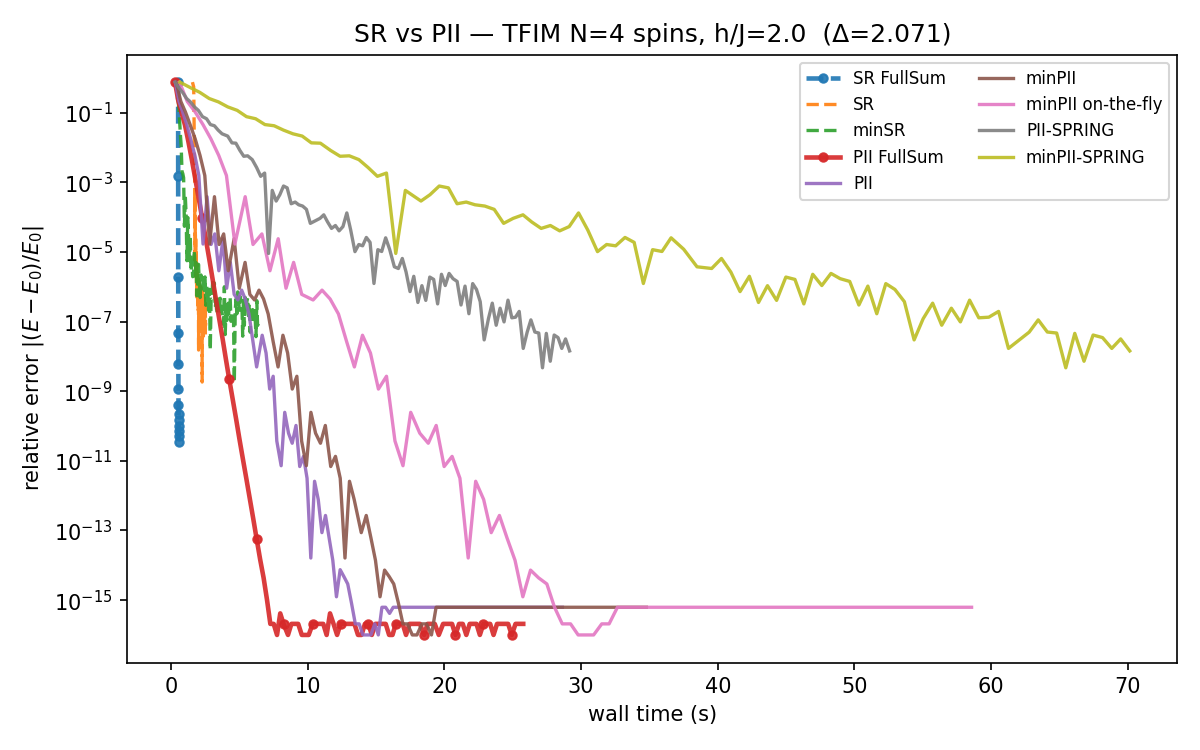
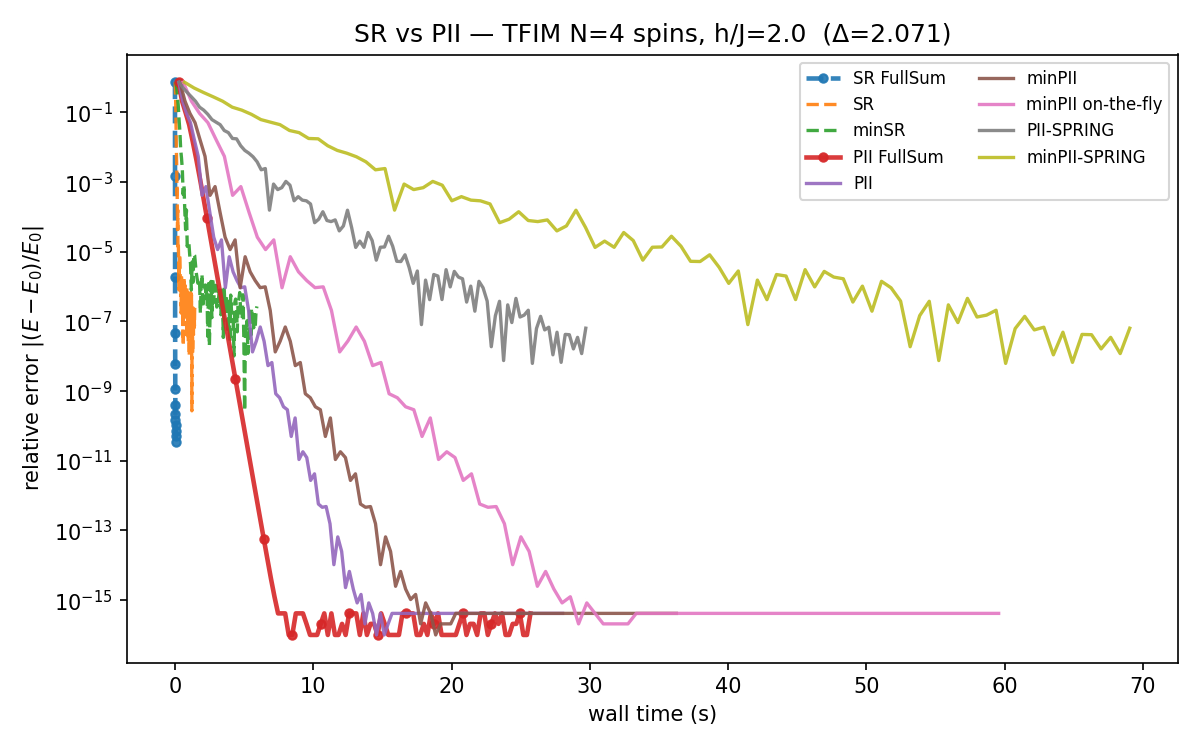
Add naive symmetrizer and clean up

diff --git a/pii/_ngd/solvers.py b/pii/_ngd/solvers.py
@@ -12,14 +12,16 @@ Bind the keyword-only ``diag_shift`` with :func:`functools.partial`, e.g.::
 
     from functools import partial
     import pii
-    solver = partial(pii.symmetrized_solver, diag_shift=1e-2)   # (Q, b) -> (x, info)
+    solver = partial(pii.penrose_symmetrized_solver, diag_shift=1e-2)   # (Q, b) -> (x, info)
 """
 
+import netket as nk
 import jax.numpy as jnp
 import jax.scipy as jsp
+from functools import partial
 
 
-def symmetrized_solver(Q, b, *, diag_shift, solver=None):
+def penrose_symmetrized_solver(Q, b, *, diag_shift, solver=None):
     r"""Regularized-least-squares ("symmetrized") solver for the dense PII matrix ``Q``.
 
     Bind ``diag_shift`` (and optionally ``solver``) with :func:`functools.partial` to
@@ -93,5 +95,83 @@ def symmetrized_solver(Q, b, *, diag_shift, solver=None):
     M = QhQ + diag_shift * jnp.eye(side, dtype=QhQ.dtype)
     rhs = Qh @ b
     if solver is None:
-        return jsp.linalg.solve(M, rhs, assume_a="pos"), None
+        solver = nk.optimizer.solver.cholesky
+        # return jsp.linalg.solve(M, rhs, assume_a="pos"), None
     return solver(M, rhs)
+
+
+def naive_symmetrized_solver(Q, b, *, diag_shift, solver=None):
+    r"""'Naive' symmetrization: solve the Hermitian part ``½(Q+Qᴴ)`` of the PII matrix.
+
+    Bind ``diag_shift`` (and optionally ``solver``) with :func:`functools.partial` to
+    obtain a ``(Q, b) -> (x, info)`` solver for ``pii.VMC(linear_solver=...)``.
+
+    The standard dense PII update solves ``Q ξ = ½∇E`` with ``Q = H - τS``.  In the
+    infinite-sample limit ``Q`` is Hermitian (the Gram matrix of the inner product
+    ``⟨v|Ĥ-τ|w⟩``); finite Monte-Carlo sampling adds an ``O(1/√M)`` anti-Hermitian part.
+    This solver simply *imposes* that asymptotic symmetry by replacing ``Q`` with its
+    Hermitian part and solving
+
+    .. math::
+        \big(\tfrac12 (Q + Q^H) + \mathrm{diag\_shift}\,I\big)\,\xi = b .
+
+    Contrast with :func:`penrose_symmetrized_solver`, which forms the normal equations
+    ``QᴴQ``.  This route is **additive** (the Hermitian part) rather than **multiplicative**
+    (``QᴴQ``), so it does *not* square the condition number of ``Q`` — it keeps ``Q``'s
+    spectral scale, and ``diag_shift`` therefore has **energy units** (like an ordinary PII
+    ``diag_shift``, not the energy² of the Penrose variant).
+
+    .. warning::
+        ``½(Q+Qᴴ)`` is symmetric but **not positive-definite** in general.  This is a
+        field-of-values effect: the (non-normal) ``Q`` is *positive-real* — all its
+        eigenvalues lie in the right half-plane, which is why standard PII's ``(Q+λI)⁻¹``
+        is well-behaved at tiny ``λ`` — yet the smallest eigenvalue of its Hermitian part
+        is the leftmost point of ``Q``'s numerical range and dips **negative** (≈ −7e-4 in
+        the small spin systems here).  So symmetrizing *introduces* a negative eigenvalue
+        that ``Q`` itself does not have — the anti-Hermitian part one discards is precisely
+        what keeps ``Q`` accretive.  The default inner solver is therefore a symmetric
+        **LDL** solve (``assume_a='sym'``), which never NaNs on an indefinite ``M`` (unlike
+        a Cholesky ``assume_a='pos'``, which would).  But a *too-small* ``diag_shift`` leaves
+        ``M = ½(Q+Qᴴ)+λI`` **near-singular** (its smallest eigenvalue barely lifted above
+        that negative one); the right-hand side excites that near-null mode and ``‖ξ‖``
+        blows up (≈ 15× the standard-PII update at ``λ=1e-3``).  With the natural step size
+        ``η=1`` the update then **overshoots** and the optimization oscillates / stalls — it
+        stays finite, and the first-order ``∇Eᵀξ`` is even a descent; it is the *nonlinear*
+        step that is too large.  Empirically ``diag_shift`` must be large enough to lift
+        ``M`` comfortably positive-definite — ``O(0.1–1)`` here, *despite* the energy units —
+        which shrinks ``‖ξ‖`` back to normal at the cost of over-regularization (slower
+        convergence and a higher floor than standard PII).
+
+    .. important::
+        Use with ``diag_shift=0`` **on the driver** (a separate knob); the regularization is
+        carried entirely by this solver's ``diag_shift``.
+
+    .. note::
+        ``Q`` is **always real** here — NetKet realifies ``mode='complex'`` by stacking the
+        Re/Im channels into extra real rows/columns — so ``Qᴴ = Qᵀ`` and ``½(Q+Qᵀ)`` is the
+        realified Hermitian part (``= realify(½(C+Cᴴ))``); the complex case is handled
+        correctly by construction.  On the ``use_ntk``/``on_the_fly`` paths the solver
+        instead receives the ``2M×2M`` NTK kernel ``K`` and symmetrizes ``½(K+Kᴴ)`` — a valid
+        sibling, with the same indefiniteness caveat.
+
+    Args:
+        Q: the dense PII matrix (or the NTK kernel ``K``) passed by the kernel.
+        b: the right-hand side ``½∇E`` (passed by the kernel).
+        diag_shift: Tikhonov regularization added to ``½(Q+Qᴴ)`` (keyword-only;
+            **energy units**).  Bind via ``partial``; use with driver ``diag_shift=0``.
+        solver: optional inner solver ``(A, b) -> (x, info)`` for the symmetric system
+            ``(½(Q+Qᴴ) + diag_shift·I) ξ = b``.  Defaults (``None``) to a symmetric LDL
+            solve :func:`jax.scipy.linalg.solve` with ``assume_a='sym'``.
+
+    Returns:
+        ``ξ = (½(Q+Qᴴ) + diag_shift·I)⁻¹ b`` (a bare array for the default solver, or
+        whatever a custom ``solver`` returns).
+    """
+    
+    Qh = Q.conj().T
+    side = Q.shape[-1]
+    M = 0.5 * (Qh + Q) + diag_shift * jnp.eye(side, dtype=Q.dtype)
+    if solver is None:
+        solver = partial(jsp.linalg.solve, assume_a="sym")
+    return solver(M, b)
+        

diff --git a/test/test_pii.py b/test/test_pii.py
@@ -8,7 +8,7 @@ import optax
 import pytest
 
 import pii
-from pii import symmetrized_solver
+from pii import penrose_symmetrized_solver
 
 from .common import tfim, make_mcstate, make_fullsum, rel_error
 
@@ -112,21 +112,21 @@ def test_tau_schedule():
 # --- Symmetrized PII (regularized pseudo-inverse solver) ---------------------
 
 
-def test_symmetrized_solver_math():
-    """symmetrized_solver returns (QᵀQ+reg·I)⁻¹Qᵀb, → Q⁻¹b as reg→0."""
+def test_penrose_symmetrized_solver_math():
+    """penrose_symmetrized_solver returns (QᵀQ+reg·I)⁻¹Qᵀb, → Q⁻¹b as reg→0."""
     rng = np.random.default_rng(0)
     n = 20
     Q = np.eye(n) + 0.3 * rng.standard_normal((n, n))  # well-conditioned
     b = rng.standard_normal(n)
 
     reg = 1e-3
-    x, info = symmetrized_solver(Q, b, diag_shift=reg)
+    x, info = penrose_symmetrized_solver(Q, b, diag_shift=reg)
     expected = np.linalg.solve(Q.T @ Q + reg * np.eye(n), Q.T @ b)
     assert info is None
     np.testing.assert_allclose(np.asarray(x), expected, rtol=1e-6, atol=1e-8)
 
     # reg → 0 reproduces the plain solve Q⁻¹b (Q well-conditioned).
-    x0, _ = symmetrized_solver(Q, b, diag_shift=1e-10)
+    x0, _ = penrose_symmetrized_solver(Q, b, diag_shift=1e-10)
     np.testing.assert_allclose(np.asarray(x0), np.linalg.solve(Q, b), rtol=1e-5, atol=1e-6)
 
     # an inner `solver` (A, b) -> (x, info) is honored for the SPD normal system.
@@ -136,7 +136,7 @@ def test_symmetrized_solver_math():
         seen["called"] = True
         return jax.scipy.linalg.solve(A, rhs, assume_a="sym"), {"k": 1}
 
-    xs, infos = symmetrized_solver(Q, b, diag_shift=reg, solver=my_solver)
+    xs, infos = penrose_symmetrized_solver(Q, b, diag_shift=reg, solver=my_solver)
     assert seen.get("called") and infos == {"k": 1}
     np.testing.assert_allclose(np.asarray(xs), expected, rtol=1e-6, atol=1e-8)
 
@@ -148,7 +148,7 @@ def test_pii_symmetrized_fullsum_converges():
     d = pii.VMC(
         H, optax.sgd(1.0), variational_state=vs, diag_shift=0.0, pii=True,
         tau=1.2 * E0, mode="real",
-        linear_solver=partial(symmetrized_solver, diag_shift=1e-3),
+        linear_solver=partial(penrose_symmetrized_solver, diag_shift=1e-3),
     )
     d.run(n_iter=50, show_progress=False)
     assert rel_error(vs, H, E0) < 1e-3
@@ -161,13 +161,13 @@ def test_pii_symmetrized_converges():
     d = pii.VMC(
         H, optax.sgd(1.0), variational_state=vs, diag_shift=0.0, pii=True,
         tau=1.2 * E0, mode="real",
-        linear_solver=partial(symmetrized_solver, diag_shift=1e-3),
+        linear_solver=partial(penrose_symmetrized_solver, diag_shift=1e-3),
     )
     d.run(n_iter=50, show_progress=False)
     assert rel_error(vs, H, E0) < 5e-3
 
 
-def test_symmetrized_solver_pseudoinverse_rank_deficient():
+def test_penrose_symmetrized_solver_pseudoinverse_rank_deficient():
     """On a *singular* Q the solver gives the min-norm least-squares (pinv) solution.
 
     For a rank-deficient Q (the common case with over-parametrized / gauge-redundant
@@ -185,11 +185,11 @@ def test_symmetrized_solver_pseudoinverse_rank_deficient():
     Q = (U * s) @ V.T
     b = rng.standard_normal(n)
 
-    x, _ = symmetrized_solver(Q, b, diag_shift=1e-10)
+    x, _ = penrose_symmetrized_solver(Q, b, diag_shift=1e-10)
     np.testing.assert_allclose(np.asarray(x), np.linalg.pinv(Q) @ b, rtol=1e-4, atol=1e-6)
 
 
-def test_symmetrized_solver_complex_hermitian():
+def test_penrose_symmetrized_solver_complex_hermitian():
     """For a genuinely complex Q the solver must use the Hermitian transpose Qᴴ.
 
     The conjugation only matters for a *singular* complex Q (for invertible Q both
@@ -206,7 +206,7 @@ def test_symmetrized_solver_complex_hermitian():
     Q = U @ np.diag(s).astype(complex) @ V.conj().T  # rank-deficient complex
     b = rng.standard_normal(n) + 1j * rng.standard_normal(n)
 
-    x, _ = symmetrized_solver(Q, b, diag_shift=1e-10)
+    x, _ = penrose_symmetrized_solver(Q, b, diag_shift=1e-10)
     np.testing.assert_allclose(np.asarray(x), np.linalg.pinv(Q) @ b, rtol=1e-4, atol=1e-6)
     # the conjugate transpose matters: plain Qᵀ gives a materially different vector.
     x_wrong = np.linalg.solve(Q.T @ Q + 1e-10 * np.eye(n), Q.T @ b)

diff --git a/pii/examples/compare_pii_symmetrized_tfim.py b/pii/examples/compare_pii_symmetrized_tfim.py
@@ -11,7 +11,7 @@ changes between the two PII variants is the *linear solver*:
   ``ξ = (QᴴQ + λ·I)⁻¹ Qᴴ (½∇E)`` with the *unregularized* ``Q = H − τS`` — i.e.
   the regularized pseudo-inverse of ``Q``. This requires the driver ``diag_shift=0``
   (the regularization is carried by the solver's ``diag_shift``). See
-  :func:`pii.symmetrized_solver`. Note that ``diag_shift_pii_symm`` has **energy²
+  :func:`pii.penrose_symmetrized_solver`. Note that ``diag_shift_pii_symm`` has **energy²
   units** and — because forming ``QᴴQ`` squares the (large) condition number of the
   rank-deficient ``Q`` — empirically needs to be ``O(0.1–1)`` here, *far* larger than
   ``diag_shift_pii`` (the energy-unit heuristic gives only the dimension, not the
@@ -79,10 +79,9 @@ print(f"PII η = {lr_pii};  diag_shift (unsym) = {diag_shift_pii};  "
 # The symmetrized solver is bound once (partial on the shift) and shared by the MC
 # and FullSum runs. NOTE: the driver diag_shift must be 0 for these runs (the
 # regularization is carried by the solver's diag_shift here).
-solver = None
-# since we symmetrize, we can use the Cholesky solver
-solver = nk.optimizer.solver.cholesky
-sym_solver = partial(pii.symmetrized_solver, diag_shift=diag_shift_pii_symm, solver=solver)
+# note: the default solver is now Cholesky!
+sym_solver = partial(pii.penrose_symmetrized_solver, diag_shift=diag_shift_pii_symm)
+# sym_solver = partial(pii.naive_symmetrized_solver, diag_shift=diag_shift_pii)
 
 runs = {
     "PII symmetrized FullSum": (
@@ -133,16 +132,24 @@ for label, (lr, kw) in runs.items():
     # RBMRealParams has a complex log-amplitude (real params), so use mode="complex".
     driver = pii.VMC(H, opt, variational_state=vstate, **kw)
     log = nk.logging.RuntimeLog()
-    walltime = []
+    # warm up to trigger JIT compilation (not timed, not logged), then reset to the
+    # shared start so the comparison still begins from identical parameters.
+    driver.run(n_iter=1, show_progress=False)
+    driver.state.parameters = init_params
+    jax.block_until_ready(driver.state.parameters)
+
     t0 = time.perf_counter()
-    for _ in range(N_ITER):
-        driver.run(n_iter=1, out=log, show_progress=False)
-        jax.block_until_ready(driver.state.parameters)
-        walltime.append(time.perf_counter() - t0)
-    energies = np.asarray(log.data["Energy"].Mean).real
-    results[label] = (energies, np.asarray(walltime))
+    driver.run(n_iter=N_ITER, out=log, show_progress=True)
+    jax.block_until_ready(driver.state.parameters)
+    total = time.perf_counter() - t0
+
+    energies = np.asarray(log.data["Energy"].Mean).real  # N_ITER points
+    # per-iteration wall time from the single accurate total (steady state ⇒ ~uniform
+    # per step); avoids the per-step block_until_ready sync overhead.
+    walltime = np.linspace(total / N_ITER, total, N_ITER)
+    results[label] = (energies, walltime)
     print(f"  {label:26s} final E = {energies[-1]:.5f}  rel.err = "
-          f"{abs((energies[-1] - E0) / E0):.2e}  ({walltime[-1]:.2f}s)")
+          f"{abs((energies[-1] - E0) / E0):.2e}  ({total:.2f}s)")
 
 # Plot the relative energy error for every entry in `runs`. Convention: unsymmetrized
 # dashed, symmetrized solid; exact (FullSum) runs get markers.

diff --git a/pii/examples/compare_sr_pii_tfim.py b/pii/examples/compare_sr_pii_tfim.py
@@ -157,18 +157,24 @@ for label, (lr, kw) in runs.items():
     # (mode="real" would truncate the phase and is only for real-output ansätze.)
     driver = pii.VMC(H, opt, variational_state=vstate, mode="complex", **kw)
     log = nk.logging.RuntimeLog()
-    # Time each iteration: cumulative wall time after every step. The first step
-    # includes one-time JIT compilation, which is part of the total wall time.
-    walltime = []
+    # warm up to trigger JIT compilation (not timed, not logged), then reset to the
+    # shared start so the comparison still begins from identical parameters.
+    driver.run(n_iter=1, show_progress=False)
+    driver.state.parameters = init_params
+    jax.block_until_ready(driver.state.parameters)
+
     t0 = time.perf_counter()
-    for _ in range(N_ITER):
-        driver.run(n_iter=1, out=log, show_progress=False)
-        jax.block_until_ready(driver.state.parameters)
-        walltime.append(time.perf_counter() - t0)
-    energies = np.asarray(log.data["Energy"].Mean).real
-    results[label] = (energies, np.asarray(walltime))
+    driver.run(n_iter=N_ITER, out=log, show_progress=False)
+    jax.block_until_ready(driver.state.parameters)
+    total = time.perf_counter() - t0
+
+    energies = np.asarray(log.data["Energy"].Mean).real  # N_ITER points
+    # per-iteration wall time from the single accurate total (steady state ⇒ ~uniform
+    # per step); avoids the per-step block_until_ready sync overhead.
+    walltime = np.linspace(total / N_ITER, total, N_ITER)
+    results[label] = (energies, walltime)
     print(f"  {label:18s} final E = {energies[-1]:.5f}  rel.err = "
-          f"{abs((energies[-1] - E0) / E0):.2e}  ({walltime[-1]:.2f}s)")
+          f"{abs((energies[-1] - E0) / E0):.2e}  ({total:.2f}s)")
 
 # Plot the relative energy error for every entry in `runs` (so any experiment added
 # above is plotted automatically), against two x-axes: iteration count and cumulative

diff --git a/pii/__init__.py b/pii/__init__.py
@@ -12,6 +12,6 @@ Ground-State Computation with Neural Quantum States".
 
 from pii.driver import VMC
 from pii import models  # exposes pii.models.RBMRealParams
-from pii._ngd.solvers import symmetrized_solver
+from pii._ngd.solvers import penrose_symmetrized_solver, naive_symmetrized_solver
 
-__all__ = ["VMC", "models", "symmetrized_solver"]
+__all__ = ["VMC", "models", "penrose_symmetrized_solver", "naive_symmetrized_solver"]
